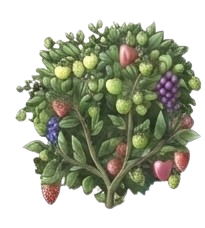
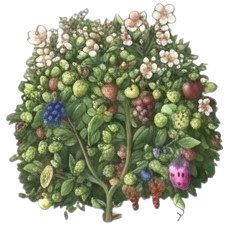
add sower veg growth stage mapping and shuffle utility for questions

diff --git a/package/core/src/scenes/sower/scene.ts b/package/core/src/scenes/sower/scene.ts
@@ -5,6 +5,7 @@ import { WaterEntity } from '@package/core/entity/entity.water';
 import type { IScene } from '@package/core/scenes/scene-engine';
 import { createCameraUpdateSystem } from '@package/core/systems';
 import type { IDiContainer } from '@package/core/util/di-container';
+import { shuffle } from '@package/core/util/shuffle';
 import { tweenManager } from '@package/core/util/tween';
 
 interface Question {
@@ -13,55 +14,65 @@ interface Question {
   correctIndex: number;
 }
 
-const questions: Question[] = [
+let questions: Question[] = [
   {
-    text: 'What did the farmer go out to do?',
-    options: ['Plant seeds', 'Harvest wheat'],
+    text: 'What was the farmer dropping on the ground?',
+    options: ['Seeds', 'Candy'],
     correctIndex: 0,
   },
   {
-    text: 'What happened to the seeds that fell on the path?',
-    options: ['Birds ate them', 'They grew tall'],
+    text: "What do the seeds represent in Jesus' story?",
+    options: ["God's Word", 'Rocks'],
     correctIndex: 0,
   },
   {
-    text: 'What happened to the seeds on rocky ground?',
-    options: ['Sprang up but withered', 'Never sprouted'],
+    text: 'What is the dirt or soil supposed to be like in the story?',
+    options: ['Our hearts', 'Our shoes'],
     correctIndex: 0,
   },
   {
-    text: 'Why did the rocky ground plants wither?',
-    options: ['No deep roots', 'Too much water'],
+    text: 'What happened to the seeds that fell on the hard path?',
+    options: ['Birds ate them', 'Fish ate them'],
     correctIndex: 0,
   },
   {
-    text: 'What happened to the seeds among thorns?',
-    options: ['Thorns choked them', 'They grew strong'],
+    text: "Why couldn't the seeds grow on the rocky ground?",
+    options: ['There were too many bugs', "The soil wasn't deep enough for roots"],
+    correctIndex: 1,
+  },
+  {
+    text: "What dried up the plants on the rocky ground when they didn't have deep roots?",
+    options: ['The hot sun', 'Cold snow'],
     correctIndex: 0,
   },
   {
-    text: 'What happened to the seeds on good soil?',
-    options: ['Produced a great crop', 'Birds ate them'],
+    text: 'What kind of weeds choked the seeds?',
+    options: ['Pretty flowers', 'Prickly thorns'],
+    correctIndex: 1,
+  },
+  {
+    text: 'What kind of soil helped the seeds grow big and strong?',
+    options: ['Good, soft rich dirt', 'Hard, rocky dirt'],
     correctIndex: 0,
   },
   {
-    text: 'What does the seed represent in the parable?',
-    options: ["God's Word", 'Money'],
+    text: "What should we do when we hear God's Word?",
+    options: ['Listen with a good heart', 'Cover our ears'],
     correctIndex: 0,
   },
   {
-    text: 'What does the path represent?',
-    options: ["Those who don't understand", 'Those who obey'],
+    text: 'Which seed was the happiest and produced a big harvest?',
+    options: ['The seed on the path', 'The seed in the good soil'],
+    correctIndex: 1,
+  },
+  {
+    text: 'If our heart is like good soil, what kind of actions will grow in us?',
+    options: ['Kindness and love', 'Yelling and pushing'],
     correctIndex: 0,
   },
   {
-    text: 'What do the thorns represent?',
-    options: ['Worries and wealth', 'Friends and family'],
-    correctIndex: 0,
-  },
-  {
-    text: 'What does the good soil represent?',
-    options: ['Those who hear and obey', 'Those who are rich'],
+    text: 'Who told this parable?',
+    options: ['Jesus', 'A disciple'],
     correctIndex: 0,
   },
 ];
@@ -189,6 +200,8 @@ export const sowerScene = (di: IDiContainer): IScene => {
 
   return {
     load: async () => {
+      questions = shuffle(questions);
+
       const camera = new CameraEntity({ appRef, gameRef, gameConstants });
 
       await assetLoader.preload('vegBg', ...vegAssetNames);

diff --git a/package/core/src/entity/entity.veg.ts b/package/core/src/entity/entity.veg.ts
@@ -22,15 +22,32 @@ export class VegEntity extends Entity {
   }
 
   public growToStage(stage: number): void {
-    if (stage < 1 || stage > this.textures.length) return;
+    const mappings: { texIdx: number; scaleMul: number }[] = [
+      { texIdx: 0, scaleMul: 1.0 },
+      { texIdx: 1, scaleMul: 1.0 },
+      { texIdx: 2, scaleMul: 1.0 },
+      { texIdx: 3, scaleMul: 0.85 },
+      { texIdx: 3, scaleMul: 1.0 },
+      { texIdx: 4, scaleMul: 1.0 },
+      { texIdx: 5, scaleMul: 1.0 },
+      { texIdx: 6, scaleMul: 1.0 },
+      { texIdx: 7, scaleMul: 0.85 },
+      { texIdx: 7, scaleMul: 1.0 },
+      { texIdx: 8, scaleMul: 1.0 },
+      { texIdx: 9, scaleMul: 1.0 },
+    ];
 
+    if (stage < 1 || stage > mappings.length) return;
+
+    const mapping = mappings[stage - 1];
     this.currentStage = stage;
-    this.sprite.texture = this.textures[stage - 1];
+    this.sprite.texture = this.textures[mapping.texIdx];
     this.sprite.visible = true;
 
-    // Scale-in animation: pop from small to full size
+    const targetScale = this.baseScale * mapping.scaleMul;
+
     this.ctr.scale.set(0, 0);
-    tweenManager.to(0, this.baseScale, 500, Easing.QuadraticOut, (val) => {
+    tweenManager.to(0, targetScale, 500, Easing.QuadraticOut, (val) => {
       this.ctr.scale.set(val, val);
     });
   }

diff --git a/package/core/src/scenes/simple/scene.ts b/package/core/src/scenes/simple/scene.ts
@@ -4,8 +4,9 @@ import { DonkeyEntity } from '@package/core/entity/entity.donkey';
 import type { IScene } from '@package/core/scenes/scene-engine';
 import { createCameraUpdateSystem } from '@package/core/systems';
 import type { IDiContainer } from '@package/core/util/di-container';
+import { shuffle } from '@package/core/util/shuffle';
 import { tweenManager } from '@package/core/util/tween';
-import { Container, Graphics } from 'pixi.js';
+import { type Container, Graphics } from 'pixi.js';
 
 interface Question {
   text: string;
@@ -13,7 +14,7 @@ interface Question {
   correctIndex: number;
 }
 
-const questions: Question[] = [
+let questions: Question[] = [
   {
     text: 'Who was Balaam?',
     options: ['A farmer', 'A prophet'],
@@ -66,10 +67,7 @@ const questions: Question[] = [
   },
 ];
 
-function debugDrawWaypoints(
-  path: { x: number; y: number }[],
-  parent: Container,
-): Graphics {
+function debugDrawWaypoints(path: { x: number; y: number }[], parent: Container): Graphics {
   const g = new Graphics();
   for (const point of path) {
     g.circle(point.x, point.y, 6);
@@ -193,6 +191,8 @@ export const simpleScene = (di: IDiContainer): IScene => {
 
   return {
     load: async () => {
+      questions = shuffle(questions);
+
       const camera = new CameraEntity({ appRef, gameRef, gameConstants });
 
       await assetLoader.preload('journeyBg', 'balaam');

diff --git a/package/core/src/util/shuffle.ts b/package/core/src/util/shuffle.ts
@@ -1,0 +1,8 @@
+export function shuffle<T>(array: T[]): T[] {
+  const result = [...array];
+  for (let i = result.length - 1; i > 0; i--) {
+    const j = Math.floor(Math.random() * (i + 1));
+    [result[i], result[j]] = [result[j], result[i]];
+  }
+  return result;
+}